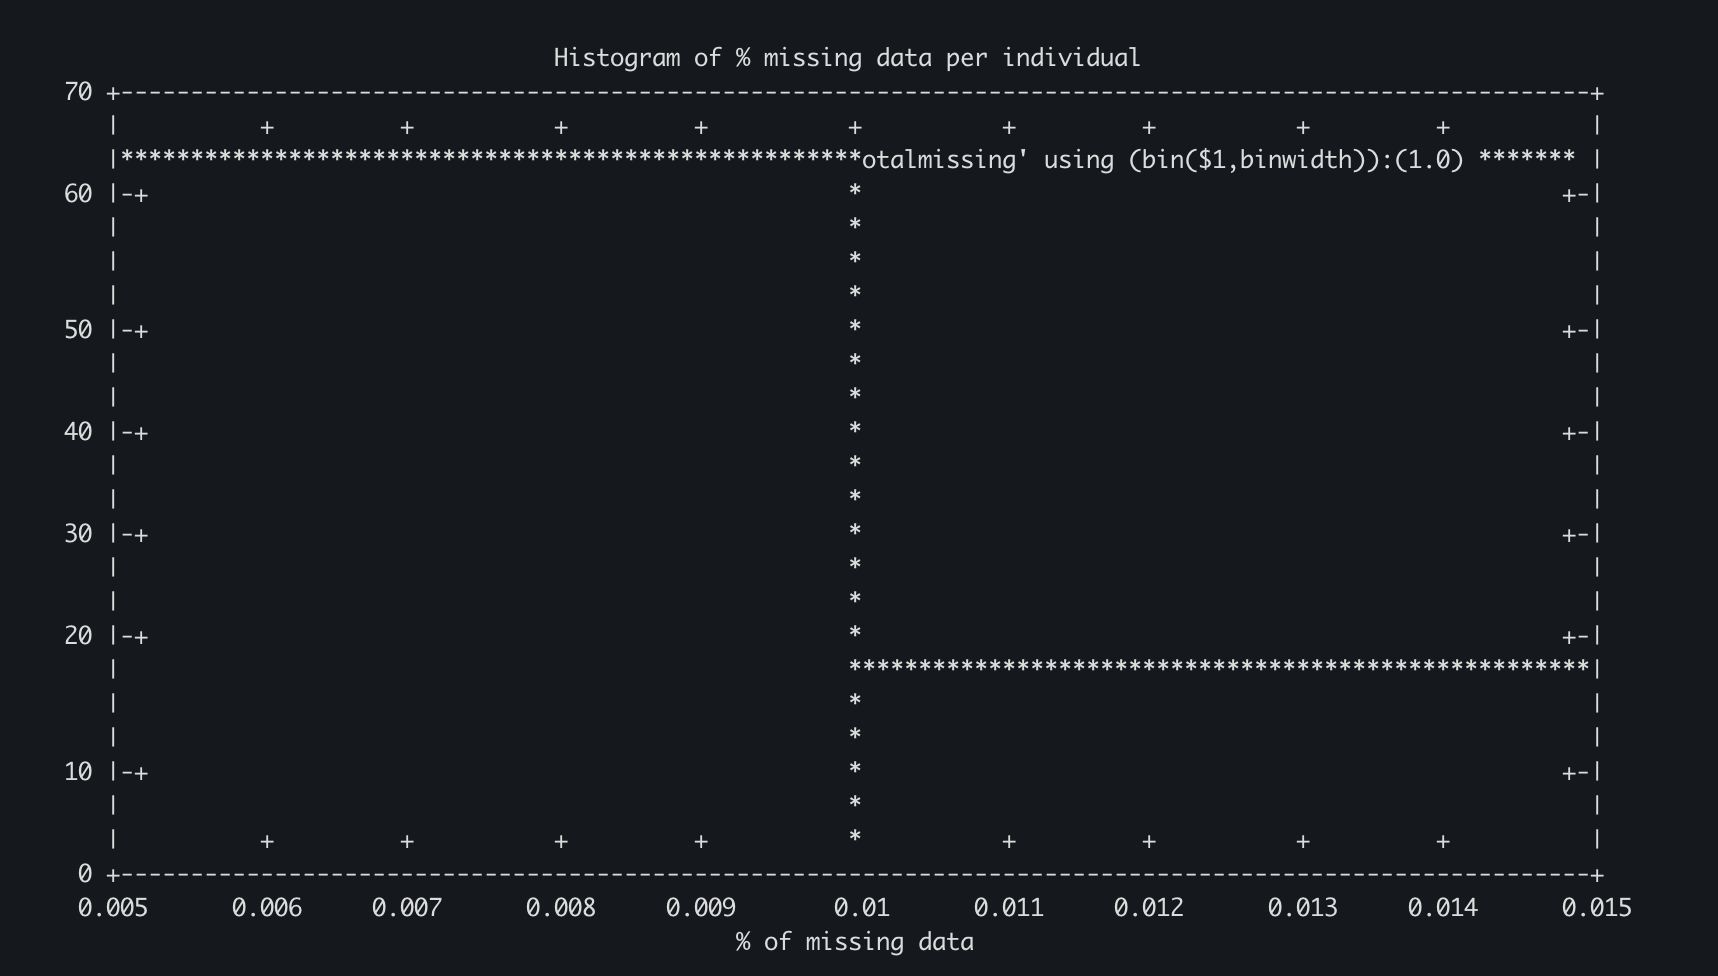
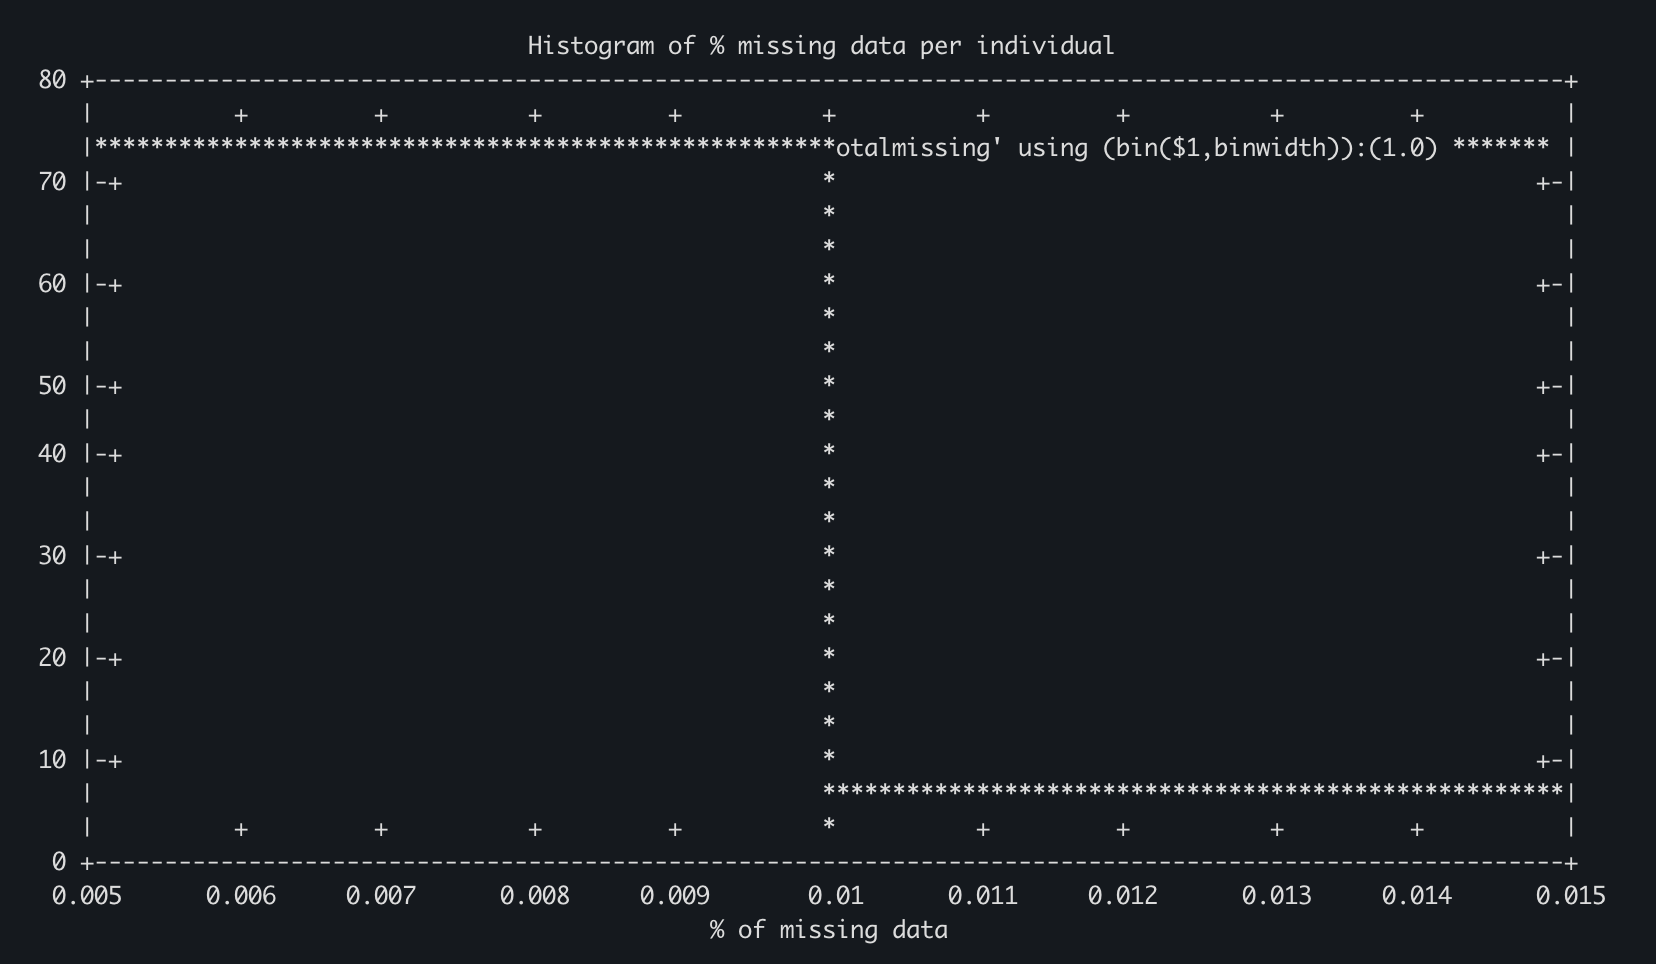
update Week 11 exercise

diff --git a/Exercises_ProbSets/Week11/Dellaert/Dellaert_Exercise.Week11.md b/Exercises_ProbSets/Week11/Dellaert/Dellaert_Exercise.Week11.md
@@ -12,7 +12,10 @@ I would like you to complete the following and push it to your own folder in thi
 ```
 mkdir Week11
 cd Week11
-ln -s /home/BIO594/Exercises/Week_11/* ./
+
+mkdir callSNPs
+cd callSNPs
+ln -s /home/BIO594/Exercises/Week_11/*.fq.gz .
 
 mamba create -n Week11_Ex ddocent
 source activate Week11_Ex
@@ -76,7 +79,7 @@ Got a lot of warnings but ended with this:
 
 - After filtering, kept 80 out of 80 Individuals
 - Outputting VCF file...
-- After filtering, kept 1922 out of a possible 3025 Sites
+- After filtering, kept 1969 out of a possible 3287 Sites
 - Run Time = 0.00 seconds
 
 Now our filtered VCF is: raw.g5mac3.recode.vcf
@@ -88,6 +91,8 @@ Recode genotypes that have less than 3 reads
 ```
 vcftools --vcf raw.g5mac3.recode.vcf --minDP 3 --recode --recode-INFO-all --out raw.g5mac3dp3
 ```
+
+After filtering, kept 1969 out of a possible 1969 Sites
 
 Checking our filtering using Jon's script:
 
@@ -102,18 +107,17 @@ Result:
 - It report a low range, based on a 50% binomial probability of observing the second allele in a heterozygote and a high range based on a 25% probability.
 - Potential genotyping errors from genotypes from only 1 read range from 0.0 to 0.0
 - Potential genotyping errors from genotypes from only 2 reads range from 0.0 to 0.0
-- Potential genotyping errors from genotypes from only 3 reads range from 46.125 to 154.98
-- Potential genotyping errors from genotypes from only 4 reads range from 21.875 to 110.6
+- Potential genotyping errors from genotypes from only 3 reads range from  43.875 to 147.42
+- Potential genotyping errors from genotypes from only 4 reads range from 20.9375 to 105.86
 - Potential genotyping errors from genotypes from only 5 reads range from 13.96875 to 105
-- 80 number of individuals and 1922 equals 153760 total genotypes
-- Total genotypes not counting missing data 153749
-- Total potential error rate is between 0.0005331335488360899 and 0.0024102920994608095
+- 80 number of individuals and 1969 equals 157520 total genotypes
+- Total genotypes not counting missing data 157069
+- Total potential error rate is between 0.0005015709656265718 and 0.0022810357231535182
 - SCORCHED EARTH SCENARIO
 - WHAT IF ALL LOW DEPTH HOMOZYGOTE GENOTYPES ARE ERRORS?????
-- The total SCORCHED EARTH error rate is 0.0075837891628563435.
+- The total SCORCHED EARTH error rate is 0.0072133902934379155.
 
-
- The next step is to get rid of individuals that did not sequence well.  We can do this by assessing individual levels of missing data.
+The next step is to get rid of individuals that did not sequence well.  We can do this by assessing individual levels of missing data.
 
 ```
 vcftools --vcf raw.g5mac3dp3.recode.vcf --missing-indv
@@ -123,7 +127,7 @@ vcftools --vcf raw.g5mac3dp3.recode.vcf --missing-indv
 
 - After filtering, kept 80 out of 80 Individuals
 - Outputting Individual Missingness
-- After filtering, kept 1922 out of a possible 1922 Sites
+- After filtering, kept 1969 out of a possible 1969 Sites
 
 Plot data
 
@@ -146,7 +150,7 @@ EOF
 
 ![Graph1.png](https://raw.githubusercontent.com/jpuritz/BIO_594_2023/main/Exercises_ProbSets/Week11/Dellaert/Graph1.png)
 
-It looks like about 65 individuals have less than 0.01 missing data and the other 15 have between 0.01 and 0.015 missing data.
+It looks like about 75 individuals have less than 0.01 missing data and the other 5 have between 0.01 and 0.015 missing data.
 
 Therefore, I am not going to remove any individuals. 
 
@@ -156,23 +160,20 @@ Now: restrict the data to variants called in a high percentage of individuals an
 vcftools --vcf raw.g5mac3dp3.recode.vcf --max-missing 0.95 --maf 0.05 --recode --recode-INFO-all --out DP3g95maf05 --min-meanDP 20
 ```
 
-**After filtering, kept 1153 out of a possible 1922 Sites**
-
-popmap = LibraryInfo
+**After filtering, kept 1161 out of a possible 1969 Sites**
 
 ```
-head LibraryInfo
+head popmap
 
-mawk '{print $1, $2}' LibraryInfo | mawk '$2 == "PopA"' > A.keep
-mawk '{print $1, $2}' LibraryInfo | mawk '$2 == "PopB"' > B.keep
-mawk '{print $1, $2}' LibraryInfo | mawk '$2 == "PopB"' > C.keep
-mawk '{print $1, $2}' LibraryInfo | mawk '$2 == "PopB"' > D.keep
+mawk '$2 == "PopA"' popmap > A.keep
+mawk '$2 == "PopB"' popmap > B.keep
+mawk '$2 == "PopB"' popmap > C.keep
+mawk '$2 == "PopB"' popmap > D.keep
 ```
 
  Next, we use VCFtools to estimate missing data for loci in each population
 
 ```
-
 vcftools --vcf DP3g95maf05.recode.vcf --keep A.keep --missing-site --out A
 
 vcftools --vcf DP3g95maf05.recode.vcf --keep B.keep --missing-site --out B
@@ -188,7 +189,7 @@ For all 4, the output was:
 
 #Outputting Site Missingness
 
-#After filtering, kept 1153 out of a possible 1153 Sites
+#After filtering, kept 1161 out of a possible 1161 Sites
 
 - Combine the 4 files
 - Make a list of loci about the threshold of 10% missing data to remove. 
@@ -209,6 +210,8 @@ The -s tells the filter to apply to sites, not just alleles"
 
 
 ```
+vcftools --vcf DP3g95maf05.recode.vcf --exclude-positions badloci --recode --recode-INFO-all --out DP3g95p5maf05
+
 vcffilter -s -f "AB > 0.25 & AB < 0.75 | AB < 0.01" DP3g95p5maf05.recode.vcf > DP3g95p5maf05.fil1.vcf
 ```
 
@@ -218,15 +221,15 @@ To see how many loci are now in the VCF file, you could feed it into VCFtools or
 mawk '!/#/' DP3g95p5maf05.recode.vcf | wc -l
 ```
 
-1153
+1161
 
 ```
 mawk '!/#/' DP3g95p5maf05.fil1.vcf | wc -l
 ```
 
-1147
+1153
 
-### Filtered 6 loci.
+### Filtered 8 loci.
 
 "The next filter we will apply filters out sites that have reads from both strands.  For GWAS and even RNAseq, this can be a good thing.
 
@@ -238,7 +241,7 @@ vcffilter -f "SAF / SAR > 100 & SRF / SRR > 100 | SAR / SAF > 100 & SRR / SRF > 
 mawk '!/#/' DP3g95p5maf05.fil2.vcf | wc -l
 ```
 
-Still have 1147 loci.
+Still have 1153 loci.
 
 "The next filter looks at the ratio of mapping qualities between reference and alternate alleles. The rationale here is that, again, because RADseq loci and alleles all should start from the same genomic location there should not be large discrepancy between the mapping qualities of two alleles."
 
@@ -249,7 +252,7 @@ vcffilter -f "MQM / MQMR > 0.9 & MQM / MQMR < 1.05" DP3g95p5maf05.fil2.vcf > DP3
 mawk '!/#/' DP3g95p5maf05.fil3.vcf | wc -l
 ```
 
-Still have 1147 loci.
+Still have 1153 loci.
 
 "Yet another filter that can be applied is whether or not their is a discrepancy in the properly paired status of for reads supporting reference or alternate alleles.
 
@@ -260,7 +263,7 @@ vcffilter -f "PAIRED > 0.05 & PAIREDR > 0.05 & PAIREDR / PAIRED < 1.75 & PAIREDR
 mawk '!/#/' DP3g95p5maf05.fil4.vcf | wc -l
 ```
 
-Still have 1147 loci.
+Still have 1153 loci.
 
 "The next filter we will apply is to look at the ration of locus quality score to depth"
 
@@ -272,7 +275,7 @@ vcffilter -f "QUAL / DP > 0.25" DP3g95p5maf05.fil4.vcf > DP3g95p5maf05.fil5.vcf
 mawk '!/#/' DP3g95p5maf05.fil5.vcf | wc -l
 ```
 
-1145: Filtered 2 additional loci.
+1151: Filtered 2 additional loci.
 
 Second filter: 
 
@@ -290,27 +293,27 @@ mawk '!/#/' DP3g95p5maf05.fil5.vcf | cut -f1,2,6 > DP3g95p5maf05.fil5.vcf.loci.q
 mawk '{ sum += $1; n++ } END { if (n > 0) print sum / n; }' DP3g95p5maf05.fil5.DEPTH
 ```
 
-Mean depth: 4705.66
+Mean depth: 4702.78
 
 3. Now the the mean plus 3X the square of the mean
 
 ```
-python2.7 -c "print int(4706+3*(4706**0.5))"
+python2.7 -c "print int(4703+3*(4703**0.5))"
 ```
 
-4911
+4908
 
 4. Next we paste the depth and quality files together and find the loci above the cutoff that do not have quality scores 2 times the depth, then remove those sites and recalculate depth across loci with vcftools
 
 ```
-paste DP3g95p5maf05.fil5.vcf.loci.qual DP3g95p5maf05.fil5.DEPTH | mawk -v x=4911 '$4 > x' | mawk '$3 < 2 * $4' > DP3g95p5maf05.fil5.lowQDloci
+paste DP3g95p5maf05.fil5.vcf.loci.qual DP3g95p5maf05.fil5.DEPTH | mawk -v x=4908 '$4 > x' | mawk '$3 < 2 * $4' > DP3g95p5maf05.fil5.lowQDloci
 
 vcftools --vcf DP3g95p5maf05.fil5.vcf --site-depth --exclude-positions DP3g95p5maf05.fil5.lowQDloci --out DP3g95p5maf05.fil5
 ```
 
 - After filtering, kept 80 out of 80 Individuals
 - Outputting Depth for Each Site
-- After filtering, kept 1099 out of a possible 1145 Sites
+- **After filtering, kept 1068 out of a possible 1151 Sites**
 
 5. Look at the depth calculated by vcftools, x = 80 (# of individuals)
 
@@ -365,7 +368,7 @@ vcfallelicprimitives DP3g95p5maf05.fil5.vcf --keep-info --keep-geno > DP3g95p5ma
 vcftools --vcf DP3g95p5maf05.prim.vcf --remove-indels --recode --recode-INFO-all --out SNP.DP3g95p5maf05
 ```
 
-**After filtering, kept 980 out of a possible 1212 Sites**
+**After filtering, kept 937 out of a possible 1206 Sites**
 
 Now, let's apply the HWE filter.
 
@@ -373,7 +376,7 @@ Now, let's apply the HWE filter.
 perl filter_hwe_by_pop.pl -v SNP.DP3g95p5maf05.recode.vcf -p popmap -o SNP.DP3g95p5maf05.HWE -h 0.01
 ```
 
-**Kept 978 of a possible 980 loci (filtered 2 loci)**
+**Kept 936 of a possible 937 loci (filtered 1 loci)**
 
 
 
